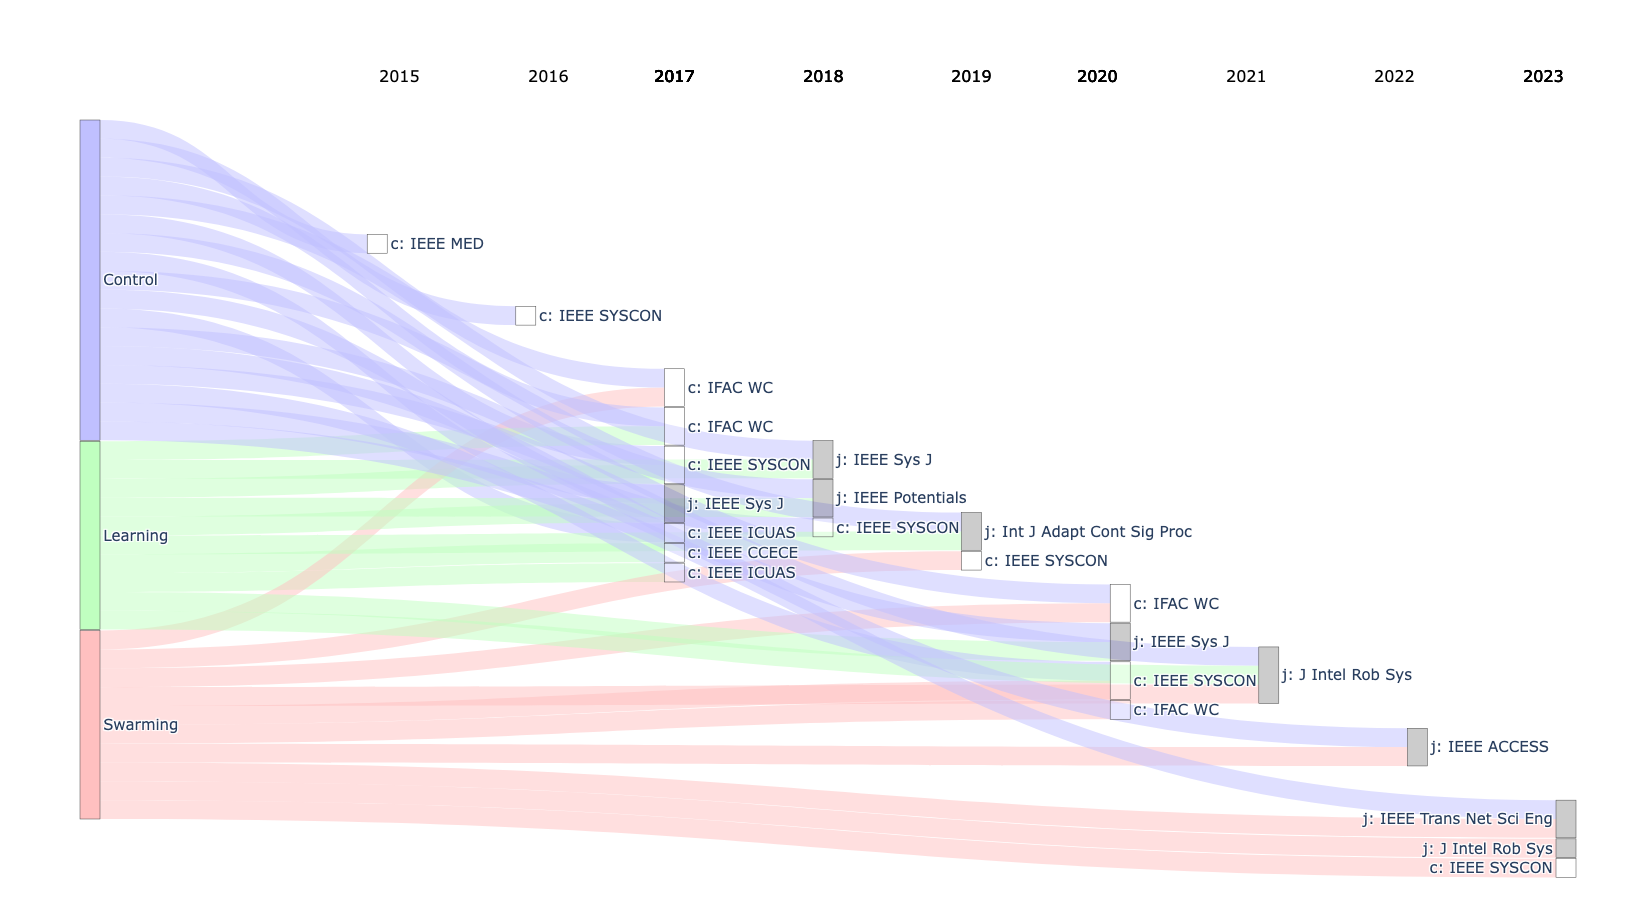
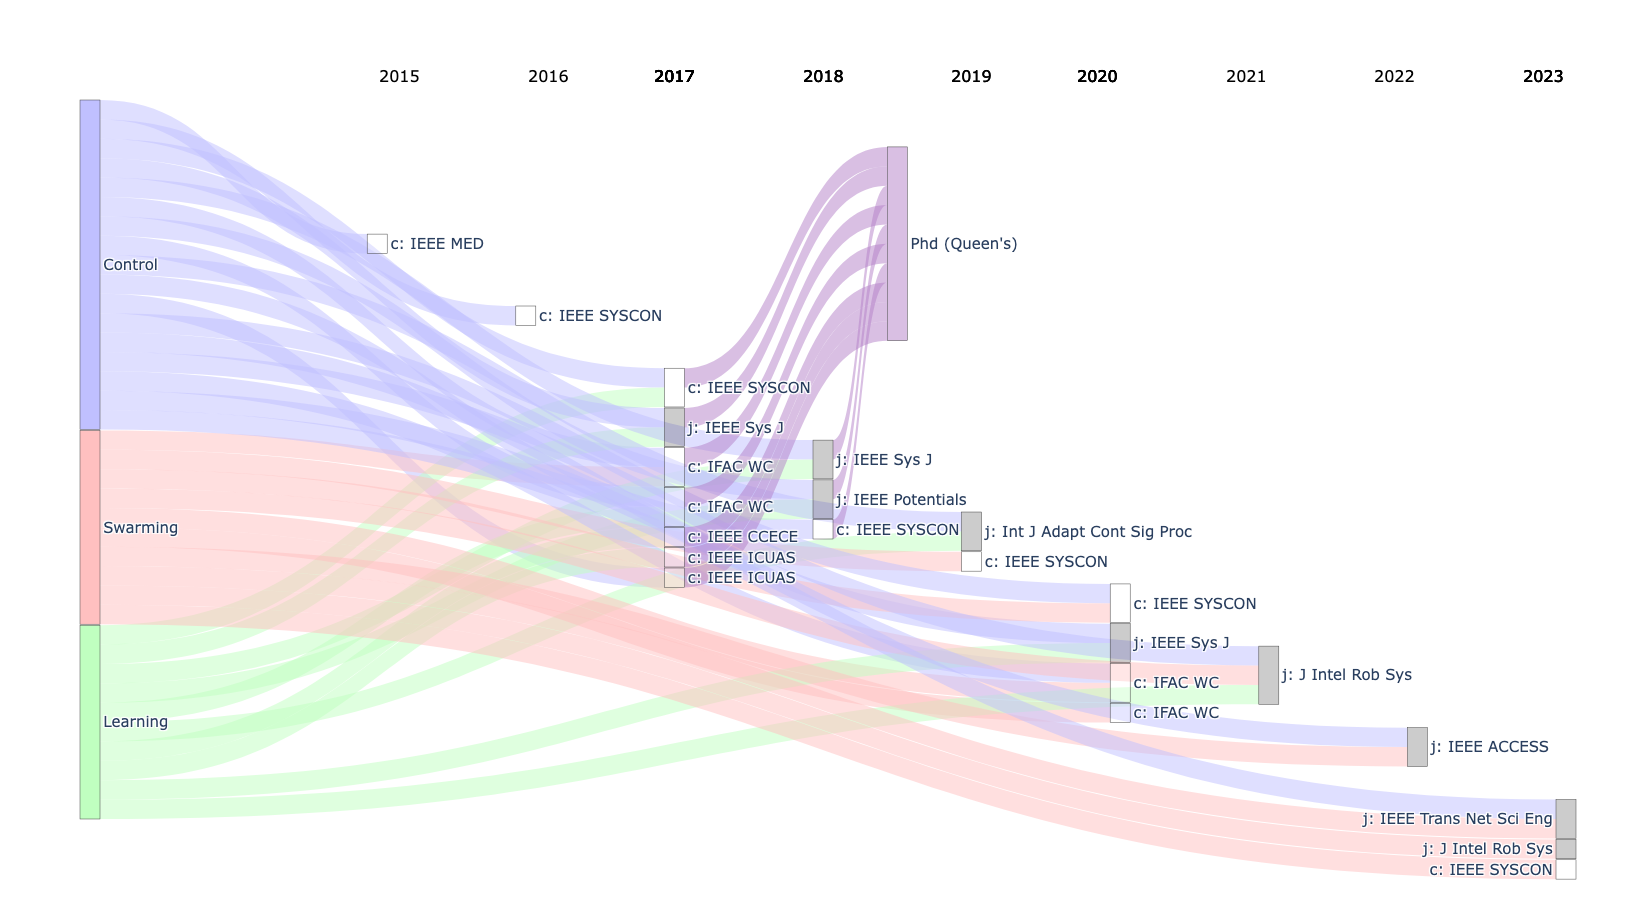
added degrees

Changed region(s): [[0.031, 0.0934, 0.8366, 0.9967], [0.8676, 0.9344, 0.9605, 0.9967], [0.6197, 0.6229, 0.6507, 0.6541]]

diff --git a/sankey.py b/sankey.py
@@ -42,7 +42,8 @@ pubs = ['c: IEEE MED',
         'j: IEEE ACCESS',
         'j: IEEE Trans Net Sci Eng',
         'j: J Intel Rob Sys',
-        'c: IEEE SYSCON']
+        'c: IEEE SYSCON'
+        ]
 
 # disciplines
 # -----------
@@ -50,7 +51,7 @@ discs = ["Swarming", "Control", "Learning"]
 
 # labels
 # ------
-labels = discs + pubs
+labels = discs + pubs 
 
 # publication dates
 # -----------------
@@ -76,7 +77,8 @@ dates = [2015,
         2022,
         2023,
         2023,
-        2023]
+        2023
+        ]
 dates_norm = [(x - 2015+2)/(2023-2015+2) for x in dates]
 
 # connect pubs to disciplines
@@ -116,7 +118,7 @@ for i in range(0,len(connects)):
     
     if type(connects[i]) == int:
         
-        connects_target += [i+3]
+        connects_target += [i+len(discs)]
         connects_source += [connects[i]]
         if connects[i] == 0:
             color_links += ['rgba(255, 192, 192, 0.5)']
@@ -128,7 +130,7 @@ for i in range(0,len(connects)):
     else:
         for j in connects[i]:
         
-            connects_target += [i+3]
+            connects_target += [i+len(discs)]
             connects_source += [j]
             
             if j == 0:
@@ -141,8 +143,8 @@ for i in range(0,len(connects)):
 
 # align by publcation dates
 # ------------------------
-ys = [0.3, 0.2, 0.1] + xs
-xs = [0, 0, 0] + xs
+ys = [0.3, 0.2, 0.1] + xs 
+xs = [0, 0, 0] + xs 
 
 # draw the nodes
 # --------------
@@ -157,22 +159,33 @@ for k in pubs:
 
 color_node = ['rgb(255, 192, 192, 0.8)', 'rgb(192, 192, 255,0.8) ', 'rgb(192, 255, 192,0.8)'] + color_node
 
+# add degrees
+# ------------
+degrees = ['Phd (Queen\'s)']
+degrees_year_norm = [(x - 2015+2)/(2023-2015+2) for x in [2018.5]]
+degrees_source = [5,6,7,8,9,10,11,12,13,14]
+degrees_target = [26,26,26,26,26,26,26,26,26,26]
+degrees_color = ['rgba(180, 128, 200, 0.5)']
+degrees_color_links = []
+for i in degrees_source:
+    degrees_color_links += ['rgba(180, 128, 200, 0.5)']
+
 # produce the chart
 # -----------------
 fig = go.Figure(go.Sankey(
     arrangement = "snap",
     node = {
-        "label": labels,
-        "x": xs,
-        "y": ys,
+        "label": labels + degrees,
+        "x": xs + degrees_year_norm,
+        "y": ys + [0.2],
         'pad':1,
-        'color': color_node,
+        'color': color_node + degrees_color,
         },  # 10 Pixels
     link = {
-        "source": connects_source,
-        "target": connects_target,
-        'color': color_links,
-        "value": list(np.ones(len(connects_source)))
+        "source": connects_source + degrees_source,
+        "target": connects_target + degrees_target,
+        'color': color_links + degrees_color_links,
+        "value": list(np.ones(len(connects_source + degrees_source)))
         }))
 
 
@@ -182,7 +195,7 @@ fig.update_layout(
 
 for x_coordinate, column_name in enumerate(dates):
   fig.add_annotation(
-          x=xs[x_coordinate+3],
+          x=xs[x_coordinate+len(discs)],
           y = 1.05,
           xref="paper",
           yref="paper",
